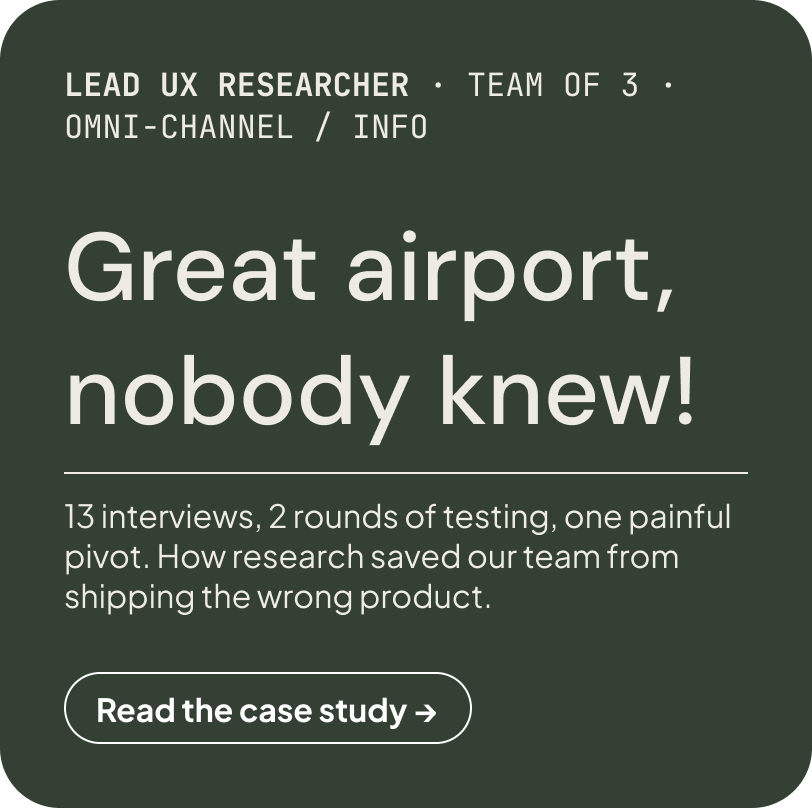
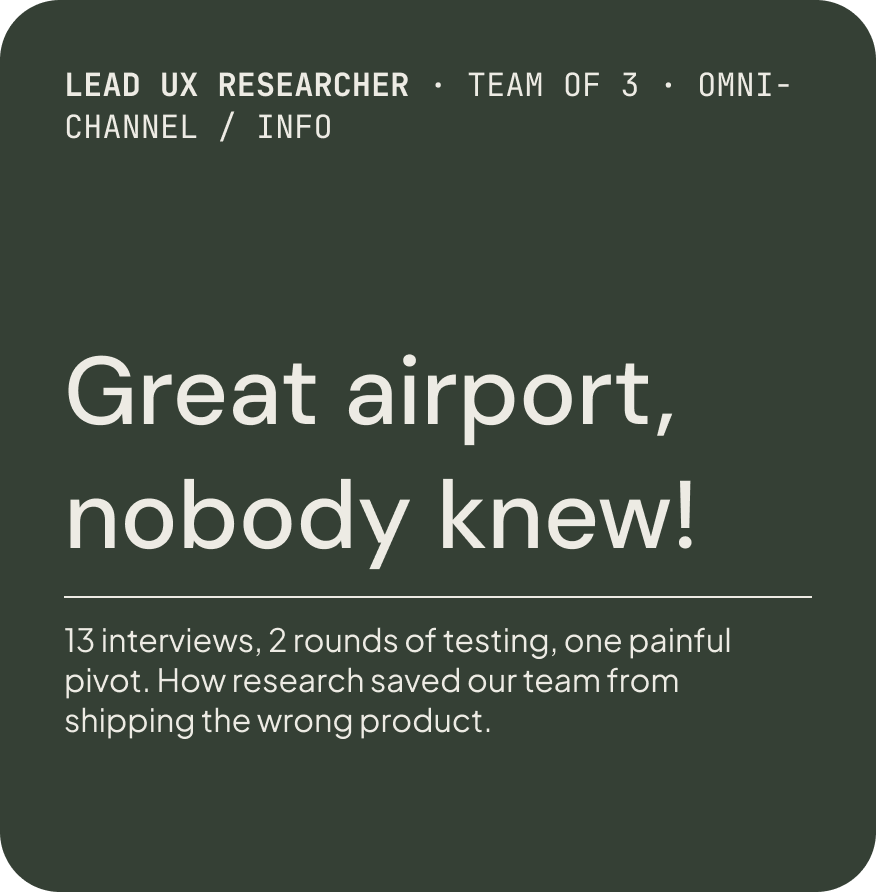
update assets

diff --git a/index.html b/index.html
@@ -307,10 +307,14 @@
     }
     .arvo-col:hover .work-section-label { opacity: 0; }
 
-    /* ── CTA card — fills full column ── */
+    /* ── CTA card — sized to image aspect ratio so contain fills width ── */
     .work-col-bottom {
       position: absolute;
-      top: 0; left: 0; right: 0;
+      top: 50%;
+      left: 0;
+      right: 0;
+      transform: translateY(-50%);
+      aspect-ratio: 960 / 1880;
       overflow: hidden;
       z-index: 1;
     }
@@ -331,10 +335,14 @@
     }
     .work-col:hover .work-name { opacity: 0; }
 
-    /* hover card image — fills full column width, natural height */
+    /* hover card image — full column, fully in view */
     .work-card-img {
+      position: absolute;
+      inset: 0;
       width: 100%;
-      height: auto;
+      height: 100%;
+      object-fit: contain;
+      object-position: center;
       display: block;
       opacity: 0;
       pointer-events: none;
@@ -354,6 +362,61 @@
     }
     .work-col:hover .work-col-link {
       pointer-events: auto;
+    }
+
+    /* "Read the case study →" button — appears on column hover */
+    .work-read-btn {
+      position: absolute;
+      bottom: 44px;
+      left: 50%;
+      transform: translateX(-50%);
+      z-index: 4;
+      display: inline-flex;
+      align-items: center;
+      gap: 8px;
+      padding: 12px 22px;
+      background: var(--bg);
+      color: var(--ink);
+      font-family: var(--font-body);
+      font-size: 13px;
+      font-weight: 600;
+      letter-spacing: 0.01em;
+      white-space: nowrap;
+      border-radius: 100px;
+      text-decoration: none;
+      opacity: 0;
+      pointer-events: none;
+      transition: opacity 0.3s ease 0.05s,
+                  background 0.15s ease,
+                  transform 0.15s ease,
+                  box-shadow 0.15s ease;
+    }
+    .work-col:hover .work-read-btn {
+      opacity: 1;
+      pointer-events: auto;
+    }
+    .work-read-btn .btn-arrow {
+      display: inline-block;
+      transition: transform 0.15s ease;
+    }
+    /* Hover state — button brightens, arrow nudges right */
+    .work-read-btn:hover {
+      background: #fff;
+      box-shadow: 0 4px 16px rgba(0,0,0,0.18);
+      transform: translateX(-50%) translateY(-2px);
+    }
+    .work-read-btn:hover .btn-arrow {
+      transform: translateX(4px);
+    }
+    /* Pressed state */
+    .work-read-btn:active {
+      background: var(--bg-warm);
+      box-shadow: 0 1px 4px rgba(0,0,0,0.12);
+      transform: translateX(-50%) scale(0.96);
+      transition-duration: 0.06s;
+    }
+    .work-read-btn:active .btn-arrow {
+      transform: translateX(2px);
     }
 
     /* ============================================================
@@ -688,6 +751,7 @@
           <img class="work-card-img" src="assets/arvo-cta.png" alt="ARVO case study" loading="lazy">
         </div>
         <div class="work-name" aria-hidden="true">ARVO</div>
+        <a class="work-read-btn" href="arvo.html">Read the case study <span class="btn-arrow">→</span></a>
         <a class="work-col-link" href="arvo.html" aria-label="Read ARVO case study"></a>
       </div>
 
@@ -697,6 +761,7 @@
           <img class="work-card-img" src="assets/seletar-cta.png" alt="Seletar Airport case study" loading="lazy">
         </div>
         <div class="work-name" aria-hidden="true">Seletar Airport</div>
+        <a class="work-read-btn" href="seletar.html">Read the case study <span class="btn-arrow">→</span></a>
         <a class="work-col-link" href="seletar.html" aria-label="Read Seletar Airport case study"></a>
       </div>
 
@@ -706,6 +771,7 @@
           <img class="work-card-img" src="assets/pethaus-cta.png" alt="Pet Haus case study" loading="lazy">
         </div>
         <div class="work-name" aria-hidden="true">Pet Haus</div>
+        <a class="work-read-btn" href="pethaus.html">Read the case study <span class="btn-arrow">→</span></a>
         <a class="work-col-link" href="pethaus.html" aria-label="Read Pet Haus case study"></a>
       </div>
 

diff --git a/portfolio-prd.md b/portfolio-prd.md
@@ -12,22 +12,28 @@ Hand this entire file to Claude Code as your opening brief. Work section by sect
 
 ## 1. Design Tokens (Non-negotiable)
 
+> ⚠️ **Use these exact values — they are live in index.html. Do not revert to any earlier version.**
+
 ```css
 :root {
   /* Colour */
-  --bg:        #F6F6F4;   /* cream, site background */
+  --bg:        #f3f2ec;   /* cream, site background */
+  --bg-warm:   #eae8e0;   /* warm cream, used for About slot framing */
   --ink:       #0A0A0A;   /* primary text */
   --muted:     #8A8A86;   /* captions, labels */
-  --accent:    #A64A2E;   /* red, hover/CTA highlight */
+  --accent:    #a1ad49;   /* lime-green, hover/CTA highlight */
+  --lime:      #dce888;
 
   /* Case study accent overrides */
   --arvo:      #2a4a6b;   /* navy */
   --seletar:   #2b5e3a;   /* forest green */
   --pethaus:   #7b3f6e;   /* mauve */
+  --work-bg:   #1f2b1f;   /* dark green — Work section background */
 
   /* Type */
-  --font-display: 'Fraunces', serif;       /* weight 300, italic */
-  --font-body:    'Inter', sans-serif;
+  --font-display: 'DM Sans', sans-serif;        /* headlines, nav */
+  --font-body:    'Plus Jakarta Sans', sans-serif; /* body text */
+  --font-mono:    'JetBrains Mono', monospace;  /* labels */
 
   /* Spacing scale */
   --sp-xs: 8px;
@@ -38,10 +44,15 @@ Hand this entire file to Claude Code as your opening brief. Work section by sect
 }
 ```
 
-**Google Fonts import:**
+**Google Fonts import (all four families — do not remove any):**
 ```html
-<link href="https://fonts.googleapis.com/css2?family=Fraunces:ital,wght@1,300&family=Inter:wght@400;500;600&display=swap" rel="stylesheet">
+<link href="https://fonts.googleapis.com/css2?family=DM+Sans:opsz,wght@9..40,100..1000&display=swap" rel="stylesheet">
+<link href="https://fonts.googleapis.com/css2?family=Plus+Jakarta+Sans:wght@200..800&display=swap" rel="stylesheet">
+<link href="https://fonts.googleapis.com/css2?family=JetBrains+Mono:wght@100..800&display=swap" rel="stylesheet">
+<link href="https://fonts.googleapis.com/css2?family=Fraunces:ital,opsz,wght@1,9..144,300&display=swap" rel="stylesheet">
 ```
+
+> Note: `Fraunces` (italic, weight 300) is used for accent/italic copy inside the About overlay panel only. `DM Sans` and `Plus Jakarta Sans` are the primary display and body fonts.
 
 ---
 
@@ -125,7 +136,17 @@ andrea-portfolio/
 
 ## 5. Homepage — Scroll Sequence Spec
 
-The homepage is **one long scroll** that passes through four states: Hero → Work → About → Contact. Navigation tabs (Work / About / Contact) are anchors into this single scroll.
+> ⚠️ **ARCHITECTURE — read before touching anything:**
+>
+> **Scroll ends at Work.** The scroll sequence is: Hero → Work. That's it. Work is the terminal scroll destination.
+>
+> **About and Contact are overlay panels**, not scroll sections. They are opened by clicking their nav buttons. They must NOT be added to the scroll flow. The existing `#about-overlay` and `#contact-overlay` `<div>` elements (outside the scroll sections) are the correct implementation.
+>
+> **Nav behaviour (locked):**
+> - Flower logo → smooth scroll to top of page
+> - "Work" link → smooth scroll to `#work`
+> - "About" button → opens `#about-overlay` dialog
+> - "Say Hi!" button → opens `#contact-overlay` dialog
 
 ### 5.1 Section: HERO
 
@@ -269,105 +290,82 @@ On mouseleave:
 - PetHaus column: `--pethaus` (#7b3f6e) at 10% opacity
 
 **CTA links:**
-- ARVO → `case-studies/arvo.html`
-- Seletar → `case-studies/seletar.html`
-- PetHaus → `case-studies/pethaus.html`
-
-**Scroll exit:** No pin. Work section ends, About section scrolls in normally.
+- ARVO → `arvo.html`
+- Seletar → `seletar.html`
+- PetHaus → `pethaus.html`
 
 ---
 
-### 5.3 Section: ABOUT
+### ⚠️ LOCKED: CTA Card Implementation — DO NOT CHANGE
 
-**5-state scroll sequence:**
+The CTA card images (`arvo-cta.png`, `seletar-cta.png`, `pethaus-cta.png`) are **960×1880px**. Columns are ~475px wide × 899px tall. The aspect ratios differ slightly. The implementation below solves "full column width fill" AND "object-fit: contain (no cropping)" simultaneously — do not change it.
+
+```css
+/* Container sized to the image aspect ratio, vertically centred.
+   Column overflow:hidden clips ~15px top+bottom — imperceptible. */
+.work-col-bottom {
+  position: absolute;
+  top: 50%;
+  left: 0;
+  right: 0;
+  transform: translateY(-50%);
+  aspect-ratio: 960 / 1880;
+  overflow: hidden;
+  z-index: 1;
+}
+
+.work-card-img {
+  position: absolute;
+  inset: 0;
+  width: 100%;
+  height: 100%;
+  object-fit: contain;      /* fills container perfectly — no side gaps, no cropping */
+  object-position: center;
+  display: block;
+  opacity: 0;
+  pointer-events: none;
+  transition: opacity 0.35s ease 0.06s;
+}
+.work-col:hover .work-card-img {
+  opacity: 1;
+  pointer-events: auto;
+}
+```
+
+**Why:** The container is forced to the image's own aspect ratio. `contain` then fills both dimensions. Do NOT change `object-fit` to `cover` (crops), change `aspect-ratio` (breaks fill-width), or flatten the container back to `inset: 0` (reintroduces side gaps).
+
+**Work section is the scroll end point. There is no scroll exit from Work.**
+
+---
+
+### 5.3 Section: ABOUT (Overlay Panel)
+
+> ⚠️ **About is NOT a scroll section. It is an overlay panel (`#about-overlay`) opened by the "About" nav button. Do not add it to the scroll flow. Do not add `#about-section` to the HTML. Do not add a staircase exit from Work.**
+
+The `#about-overlay` dialog already exists in index.html. Future animation work builds inside it, triggered on overlay open — not on scroll.
+
+**4-state animation sequence (triggered on overlay open, not scroll):**
 
 | State | Figma node | What happens |
 |---|---|---|
-| Transition | Work → `707-16514` | Work columns staircase upward off screen, About initial state revealed |
-| 1 — About lands | `707-16514` | Clean About page, text block visible, portrait not yet shown |
-| 2 — Portrait pop + text split | `713-16765` | Profile image rises from centre, surrounding text splits apart |
-| 3 — Portrait anchors, rectangle expands | `953-14453` | Portrait slides to bottom, name locks left, rectangle grows to fill bottom half with info |
-| 4 — Info swap | `953-14527` | Portrait and layout stay fixed, content in rectangle changes |
-| 5 — Exit | `953-14585` | Scrolls into Say Hi section |
+| 1 — Overlay opens | `707-16514` | Clean About layout, headline visible, portrait not shown |
+| 2 — Portrait pop + text split | `713-16765` | Portrait rises from centre, surrounding text splits apart |
+| 3 — Portrait anchors, rectangle expands | `953-14453` | Portrait slides to bottom, name locks left, warm rect fills bottom half |
+| 4 — Info swap | `953-14527` | Layout stays, content inside rect changes |
 
-**Exports needed (add to list):**
+**Exports needed:**
 - `about-initial.png` — node `707-16514`
 - `about-portrait-split.png` — node `713-16765`
 - `about-portrait-anchored.png` — node `953-14453`
 - `about-info-swap.png` — node `953-14527`
-- `sayhello.png` — node `953-14585`
+
+All content (text, labels, layout) comes from the exported PNGs. Do not invent copy.
 
 ---
 
-**Transition — Work columns staircase off screen:**
+### 5.4 Section: CONTACT ("Say Hi" — Overlay Panel)
 
-When user scrolls past the Work section, the three columns do not disappear together. They exit in a staggered cascade — left column first, then centre, then right — each sliding upward out of the viewport. As the last column clears, the About initial state is underneath.
-
-```js
-// No pin on Work for this — ScrollTrigger one-shot on scroll exit
-// Stagger uses GSAP, triggered when Work bottom reaches viewport bottom
-gsap.to(".work-col", {
-  yPercent: -120,
-  stagger: 0.12,       // left → centre → right, 120ms apart
-  ease: "power2.inOut",
-  scrollTrigger: {
-    trigger: "#work",
-    start: "bottom bottom",
-    end: "+=300",
-    scrub: 1
-  }
-});
-```
-
----
-
-**State 1 — About initial (node `707-16514`):**
-
-Build to match `about-initial.png` exactly. All text, layout, and labels come from the exported image — do not invent copy.
-
-- Background: `--bg` (cream — first light section since hero)
-- Portrait: NOT visible yet — opacity 0, scale 0, positioned at vertical centre
-
----
-
-**State 2 — Portrait pops up, text splits (scrub: node `713-16765`):**
-
-GSAP ScrollTrigger pins the About section for states 2–4.
-
-The portrait is embedded inside `about-portrait-split.png` — there is no separate portrait file. Claude Code must extract the portrait from the frame visually and match its position exactly. If a separate `about-portrait.png` is needed for the animation, ask Andrea to export just the portrait photo as a standalone PNG.
-
-Match the split layout from `about-portrait-split.png` — exact words that split and portrait position are defined by that image.
-```
-
----
-
-**State 3 — Portrait anchors, rectangle expands (scrub 0.3 → 0.65, node `953-14453`):**
-
-Match `about-portrait-anchored.png` for all layout, text position, and content inside the rectangle. Do not write bio copy or skill tags — use exactly what is in the image.
-
-```
-- #about-portrait: moves to position shown in about-portrait-anchored.png
-- .about-name: slides in to position shown in about-portrait-anchored.png
-- #about-rect: expands from bottom to height shown in about-portrait-anchored.png
-  background: --ink
-- All text content inside rect: read from about-portrait-anchored.png
-```
-
----
-
-**State 4 — Info swap (scrub 0.65 → 1.0, node `953-14527`):**
-
-Portrait stays. Layout stays. Content inside `#about-rect` changes to match `about-info-swap.png`. Do not invent the replacement content — read it from the image.
-
-```
-- Current rect content: opacity 1 → 0
-- New content from about-info-swap.png: opacity 0 → 1
-- At scrub 1.0: unpin fires, Say Hi section enters
-```
-
----
-
-### 5.4 Section: CONTACT ("Say Hi")
+> ⚠️ **Contact is also an overlay panel (`#contact-overlay`), opened by the "Say Hi!" nav button. Do not add it to the scroll flow.**
 
 **Source screen:** `node-id 953-14585` → export as `sayhello.png`
 